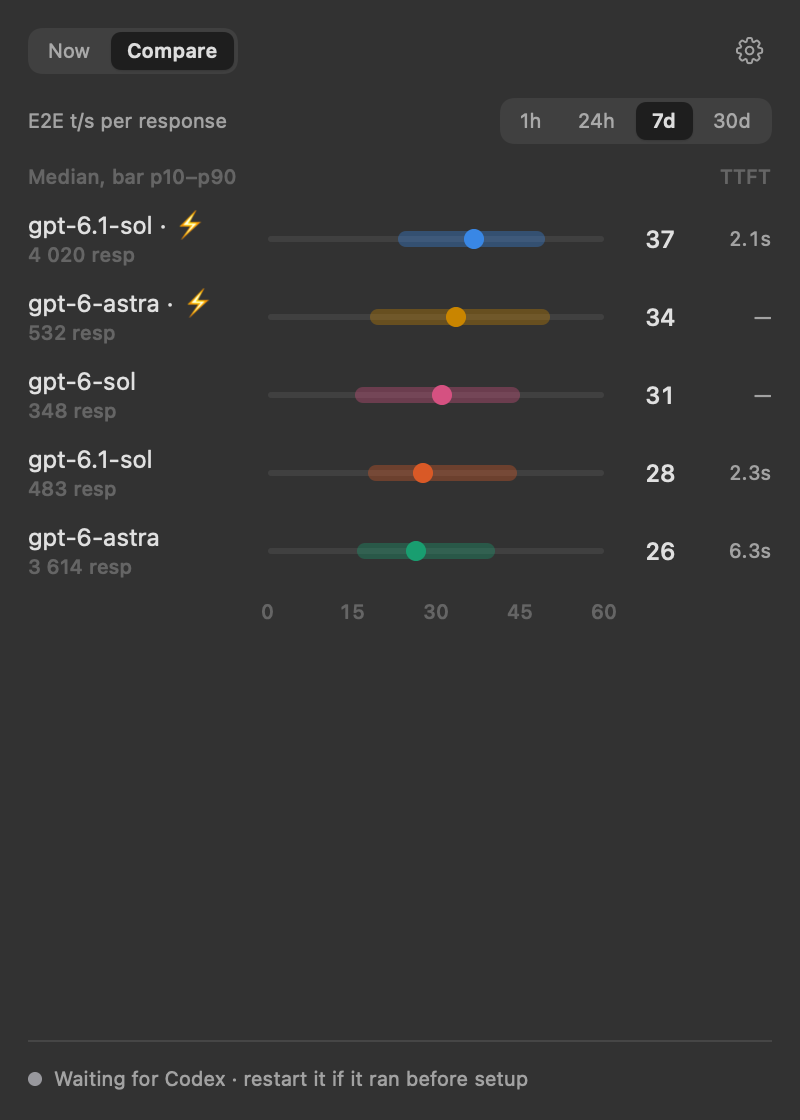
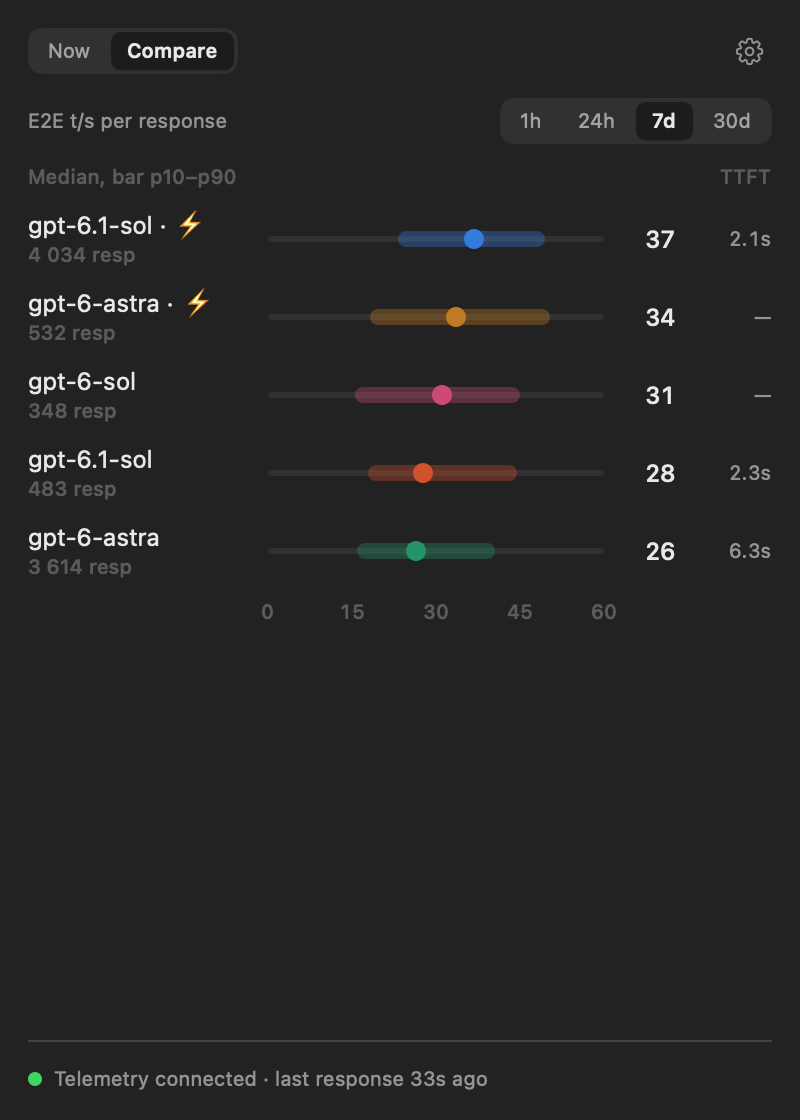
fix: keep series figures during pauses and render snapshots like the real popover
The Now tab showed the hero value (anchored to the series' latest
response, like the menu bar) above E2E/Decode/TTFT computed for the last
minute, which turned into dashes after a minute of silence. All series
figures now cover the minute before that series' latest response.

The status line counts a recent response with TTFT as telemetry
connected, so it no longer reads "Waiting" right after a restart.

Snapshots render through an offscreen AppKit window on the menu
material instead of ImageRenderer, which skipped native controls and
materials. README rewritten for the current popover, with new screenshots.

diff --git a/Sources/CodexTPS/Snapshot.swift b/Sources/CodexTPS/Snapshot.swift
@@ -1,7 +1,7 @@
 import AppKit
 import SwiftUI
 
-/// `CodexTPS --snapshot <out.png> [dark] [hover] [tray] [<range>]` renders the popover to a PNG and exits.
+/// `CodexTPS --snapshot <out.png> [now|compare|settings] [dark] [hover] [tray] [<range>]` renders the popover to a PNG and exits.
 /// `CodexTPS --bench [groups]` prints how long loading stored responses took and exits.
 enum Snapshot {
     @MainActor
@@ -62,24 +62,37 @@ enum Snapshot {
                 PopoverView(stats: stats, selection: selection, tray: tray, loginItem: loginItem, setup: setup)
             }
                 .frame(width: PopoverView.size.width)
-                .background(Color(nsColor: .windowBackgroundColor))
                 .environment(\.colorScheme, dark ? .dark : .light)
-            let r = ImageRenderer(content: view)
-            r.scale = 2
-            if dark { NSApp.appearance = NSAppearance(named: .darkAqua) }
-            guard let img = r.nsImage, let tiff = img.tiffRepresentation,
-                  let png = NSBitmapImageRep(data: tiff)?.representation(using: .png, properties: [:])
-            else {
-                FileHandle.standardError.write("snapshot: render failed\n".data(using: .utf8)!)
-                exit(1)
+            // Draw through AppKit in a real (transparent) window on the menu material, like the
+            // MenuBarExtra window, rather than ImageRenderer, which skips native controls and materials.
+            let host = NSHostingView(rootView: view)
+            host.frame = NSRect(origin: .zero, size: host.fittingSize)
+            let background = NSVisualEffectView(frame: host.frame)
+            background.material = .menu
+            background.blendingMode = .withinWindow
+            background.state = .active
+            background.addSubview(host)
+            let window = NSWindow(contentRect: host.frame, styleMask: [.borderless], backing: .buffered, defer: false)
+            window.appearance = NSAppearance(named: dark ? .darkAqua : .aqua)
+            window.contentView = background
+            window.alphaValue = 0
+            window.orderFrontRegardless()
+            DispatchQueue.main.asyncAfter(deadline: .now() + 1) {
+                background.layoutSubtreeIfNeeded()
+                guard let rep = background.bitmapImageRepForCachingDisplay(in: background.bounds) else {
+                    FileHandle.standardError.write("snapshot: render failed\n".data(using: .utf8)!)
+                    exit(1)
+                }
+                background.cacheDisplay(in: background.bounds, to: rep)
+                let png = rep.representation(using: .png, properties: [:])!
+                do {
+                    try png.write(to: out)
+                } catch {
+                    FileHandle.standardError.write("snapshot: \(error.localizedDescription)\n".data(using: .utf8)!)
+                    exit(1)
+                }
+                exit(0)
             }
-            do {
-                try png.write(to: out)
-            } catch {
-                FileHandle.standardError.write("snapshot: \(error.localizedDescription)\n".data(using: .utf8)!)
-                exit(1)
-            }
-            exit(0)
         }
     }
 

diff --git a/Sources/CodexTPS/Popover.swift b/Sources/CodexTPS/Popover.swift
@@ -67,11 +67,10 @@ struct NowTab: View {
     var body: some View {
         let model = stats.chartModel(selection.range, speed: tray.speed)
         let active = stats.activeSeries()
-        let groups = Dictionary(uniqueKeysWithValues: stats.groups.map { ($0.key, $0) })
 
         VStack(alignment: .leading, spacing: 12) {
             if let hero = stats.heroSeries(pinned: tray.pinned) {
-                HeroBlock(stats: stats, tray: tray, key: hero, live: groups[hero], color: model.color(hero))
+                HeroBlock(stats: stats, tray: tray, key: hero, live: stats.recentStats(hero), color: model.color(hero))
             } else {
                 Text("No responses yet")
                     .font(.title3)
@@ -83,7 +82,7 @@ struct NowTab: View {
 
             VStack(spacing: 0) {
                 ForEach(active, id: \.self) { key in
-                    SeriesRow(stats: stats, tray: tray, key: key, live: groups[key], color: model.color(key))
+                    SeriesRow(stats: stats, tray: tray, key: key, live: stats.recentStats(key), color: model.color(key))
                     Divider().opacity(0.5)
                 }
             }
@@ -91,7 +90,7 @@ struct NowTab: View {
             let idle = stats.allSeries.filter { !active.contains($0) }
             if !idle.isEmpty {
                 Text("Idle: " + idle.prefix(4).map { k in
-                    "\(k.label) \(ago(groups[k]?.last.end ?? stats.now, now: stats.now))"
+                    "\(k.label) \(ago(stats.recentStats(k)?.last.end ?? stats.now, now: stats.now))"
                 }.joined(separator: ", "))
                 .font(.caption)
                 .foregroundStyle(.tertiary)

diff --git a/Sources/CodexTPS/Stats.swift b/Sources/CodexTPS/Stats.swift
@@ -268,6 +268,22 @@ final class Stats {
         return seen.sorted { slot(of: $0) < slot(of: $1) }
     }
 
+    /// A series' figures over the minute before its latest response, so they stay put
+    /// during a pause instead of turning into dashes (same anchoring as the menu bar).
+    func recentStats(_ key: GroupKey) -> GroupStats? {
+        guard let last = samples.last(where: { $0.key == key }) else { return nil }
+        let cutoff = last.end.addingTimeInterval(-Self.liveWindow)
+        let window = samples.filter { $0.key == key && $0.end >= cutoff }
+        return GroupStats(
+            key: key,
+            last: last,
+            e2e: window.rate(.e2e),
+            decode: window.rate(.decode),
+            ttft: window.meanTTFT,
+            count: window.count
+        )
+    }
+
     /// Series that answered within `window`, most recent first.
     func activeSeries(within window: TimeInterval = 10 * 60) -> [GroupKey] {
         let cutoff = now.addingTimeInterval(-window)

diff --git a/Sources/CodexTPS/SetupView.swift b/Sources/CodexTPS/SetupView.swift
@@ -48,7 +48,10 @@ struct SetupStatusRow: View {
             if !setup.staleServers.isEmpty {
                 return Status(color: .orange, text: "Restart Codex to start sending telemetry", action: ("Restart Codex…", { SetupAlerts.restart(setup) }))
             }
-            if let seen = stats.telemetrySeenAt, stats.now.timeIntervalSince(seen) < 600 {
+            // A recent response with TTFT can only have come through telemetry, so it counts
+            // as connected too (e.g. right after CodexTPS restarts, before Codex sends again).
+            let recent = [stats.telemetrySeenAt, stats.lastTelemetryResponse].compactMap { $0 }.max()
+            if let seen = recent, stats.now.timeIntervalSince(seen) < 600 {
                 let last = stats.lastTelemetryResponse.map { "last response \(ago($0)) ago" } ?? "no responses yet"
                 return Status(color: .green, text: "Telemetry connected · \(last)", action: ("Remove…", { SetupAlerts.uninstall(setup) }))
             }
